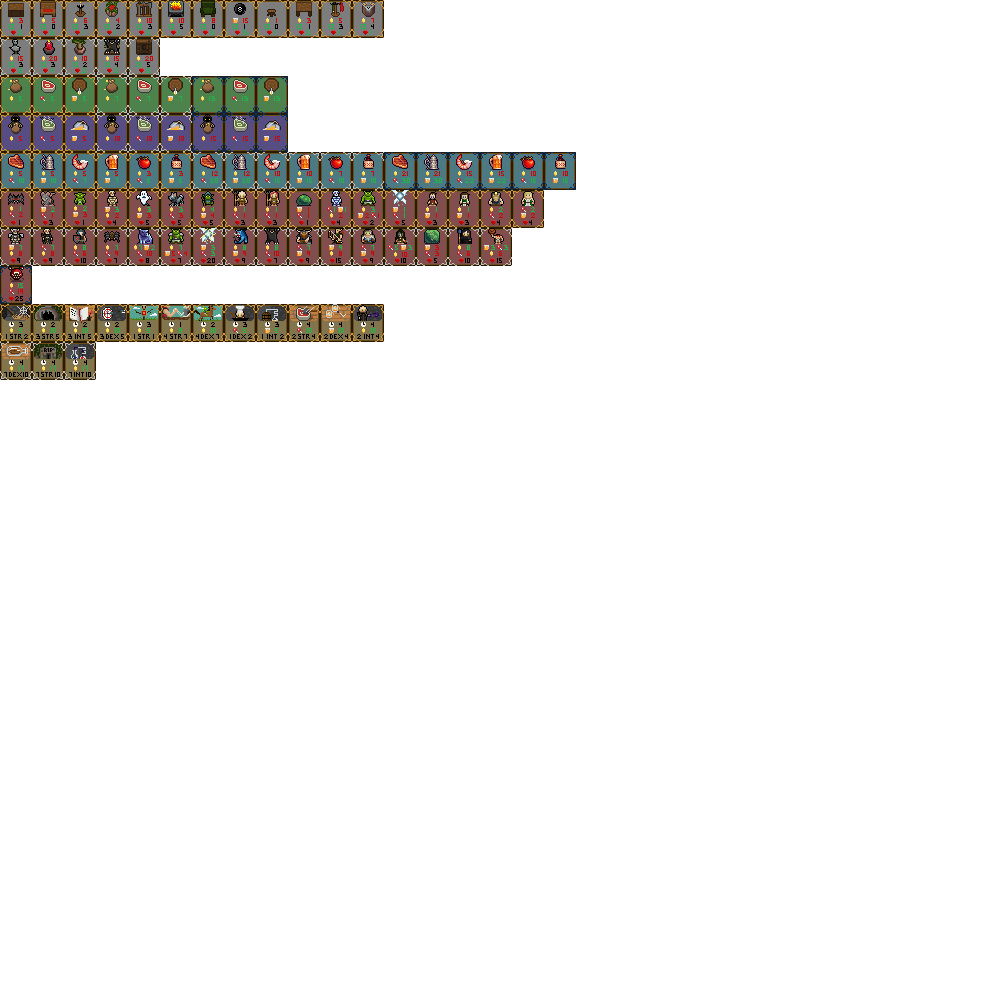
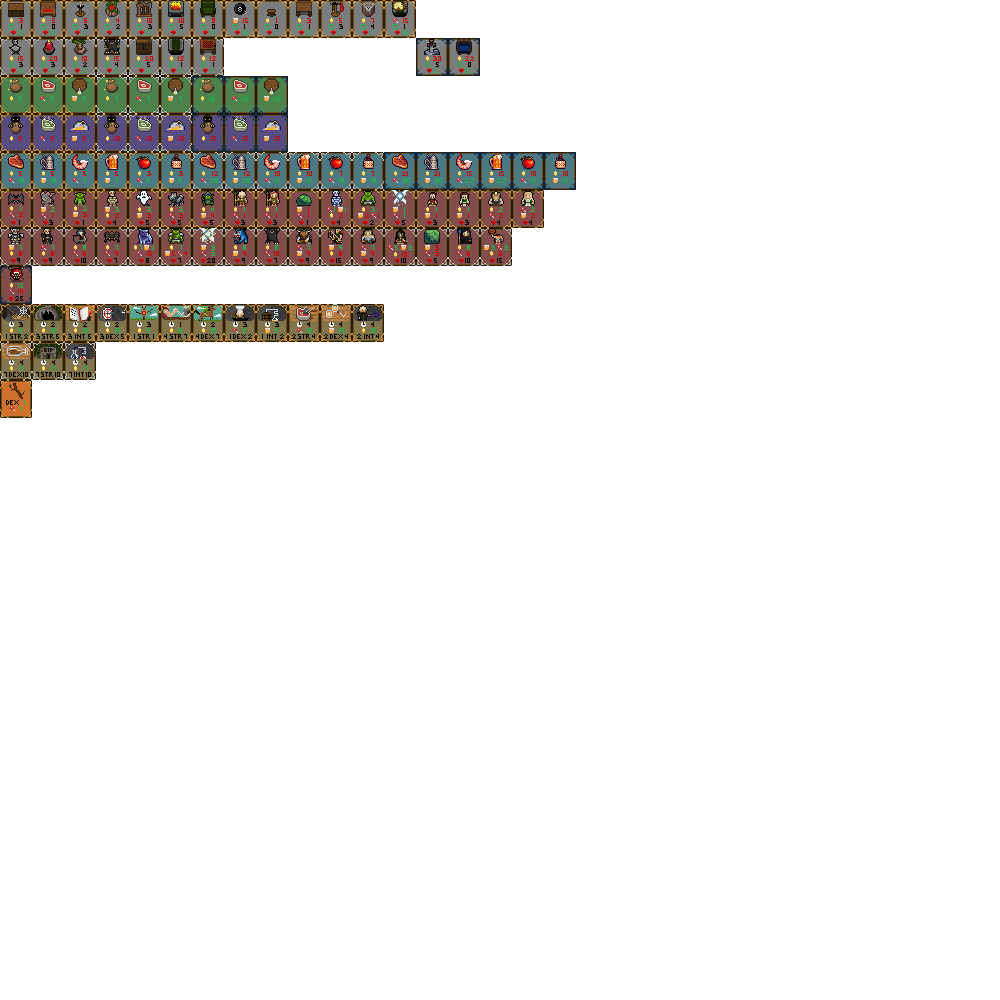
Started Work on Items and Added More Object Content

Changed region(s): [[0.372, 0.0, 0.496, 0.093], [0.155, 0.031, 0.248, 0.093], [0.0, 0.372, 0.031, 0.434]]

diff --git a/db.js b/db.js
@@ -11,11 +11,16 @@ var OBJECTSPRITES = {
     "table" : new Vector2D(9,0),
     "coatrack" : new Vector2D(10,0),
     "jackalope" : new Vector2D(11,0),
+    "cheese" : new Vector2D(12,0),
     "bust" : new Vector2D(0,1),
     "darkcandle" : new Vector2D(1,1),
     "bonsaitree" : new Vector2D(2,1),
     "mountedbear" : new Vector2D(3,1),
-    "portapotty" : new Vector2D(4,1)
+    "portapotty" : new Vector2D(4,1),
+    "stonetable" : new Vector2D(5,1),
+    "gametable" : new Vector2D(6,1),
+    "swordinstone" : new Vector2D(13,1),
+    "kingschair" : new Vector2D(14,1)
 }
 
 var BUFFCURSESPRITES = {
@@ -373,7 +378,7 @@ class Database
                                             new ResourceUpkeep(this.gold, -8), "Relaxing Chair"));
         this.objectCardsCommon.push(new ObjectCard(OBJECTSPRITES["8ball"].x, OBJECTSPRITES["8ball"].y,
                                             OBJECTSPRITES["8ball"].x, OBJECTSPRITES["8ball"].y, 3, 1, true, undefined,
-                                            new ResourceUpkeep(this.beer, -15), "The Magic 8 Ball!!"));
+                                            new ResourceUpkeep(this.beer, -15), "Magic 8 Ball"));
         this.objectCardsCommon.push(new ObjectCard(OBJECTSPRITES["stool"].x, OBJECTSPRITES["stool"].y,
                                             OBJECTSPRITES["stool"].x, OBJECTSPRITES["stool"].y, 1, 0, true, undefined,
                                             new ResourceUpkeep(this.gold, -1), "Stool"));
@@ -386,6 +391,9 @@ class Database
         this.objectCardsCommon.push(new ObjectCard(OBJECTSPRITES["jackalope"].x, OBJECTSPRITES["jackalope"].y,
                                             OBJECTSPRITES["jackalope"].x, OBJECTSPRITES["jackalope"].y, 1, 4, false, undefined,
                                             new ResourceUpkeep(this.gold, -7), "Mounted Jackalope Head"));
+        this.objectCardsCommon.push(new ObjectCard(OBJECTSPRITES["cheese"].x, OBJECTSPRITES["cheese"].y,
+                                            OBJECTSPRITES["cheese"].x, OBJECTSPRITES["cheese"].y, 3, 1, true, undefined,
+                                            new ResourceUpkeep(this.food, -15), "Gourmet Cheese Wheel"));
 
         this.objectCardsUncommon.push(new ObjectCard(OBJECTSPRITES["bust"].x, OBJECTSPRITES["bust"].y,
                                             OBJECTSPRITES["bust"].x, OBJECTSPRITES["bust"].y, 3, 3, false, undefined,
@@ -402,6 +410,19 @@ class Database
         this.objectCardsUncommon.push(new ObjectCard(OBJECTSPRITES["portapotty"].x, OBJECTSPRITES["portapotty"].y,
                                             OBJECTSPRITES["portapotty"].x, OBJECTSPRITES["portapotty"].y, 3, 5, false, undefined,
                                             new ResourceUpkeep(this.gold, -20), "Porta-Potty"));
+        this.objectCardsUncommon.push(new ObjectCard(OBJECTSPRITES["stonetable"].x, OBJECTSPRITES["stonetable"].y,
+                                            OBJECTSPRITES["stonetable"].x, OBJECTSPRITES["stonetable"].y, 4, 1, false, undefined,
+                                            new ResourceUpkeep(this.gold, -12), "Elegant Stone Table"));
+        this.objectCardsUncommon.push(new ObjectCard(OBJECTSPRITES["gametable"].x, OBJECTSPRITES["gametable"].y,
+                                            OBJECTSPRITES["gametable"].x, OBJECTSPRITES["gametable"].y, 4, 1, false, undefined,
+                                            new ResourceUpkeep(this.gold, -12), "Board Game Table"));
+
+        this.objectCardsRare.push(new ObjectCard(OBJECTSPRITES["swordinstone"].x, OBJECTSPRITES["swordinstone"].y,
+                                            OBJECTSPRITES["swordinstone"].x, OBJECTSPRITES["swordinstone"].y, 5, 5, false, undefined,
+                                            new ResourceUpkeep(this.gold, -30), "Sword in the Stone"));
+        this.objectCardsRare.push(new ObjectCard(OBJECTSPRITES["kingschair"].x, OBJECTSPRITES["kingschair"].y,
+                                            OBJECTSPRITES["kingschair"].x, OBJECTSPRITES["kingschair"].y, 12, 0, false, undefined,
+                                            new ResourceUpkeep(this.gold, -22), "King's Chair"));
     }
 
     LoadbuffCardsCommon()

diff --git a/model.js b/model.js
@@ -269,7 +269,11 @@ class Card
         LARGECARDWIDTH, LARGECARDHEIGHT);
 
       if (this.cardType == CARDTYPE_CHARACTER)
+      {
         this.stats.Draw(locX - LARGECARDWIDTH / 4, locY - LARGECARDHEIGHT, ctx);
+        if (this.item != undefined)
+          this.item.DrawLargeCard(locX + Math.floor(LARGECARDWIDTH/4), locY - Math.floor(LARGECARDHEIGHT), ctx);
+      }
     }
 
     DrawLargeCardWithOffset(locX, locY, ctx)
@@ -281,14 +285,26 @@ class Card
         ctx.drawImage(LARGECARDSPRITESHEET, this.largeCardSpriteLocX, this.largeCardSpriteLocY, 
           LARGECARDWIDTH, LARGECARDHEIGHT, locX - LARGECARDWIDTH, locY, LARGECARDWIDTH, LARGECARDHEIGHT);
         if (this.cardType == CARDTYPE_CHARACTER)
-          this.stats.Draw(locX - LARGECARDWIDTH, locY, ctx);
+        {
+          if (this.item != undefined)
+          {
+            this.item.DrawLargeCard(locX - LARGECARDWIDTH, locY, ctx);
+            this.stats.Draw(locX - LARGECARDWIDTH*2, locY, ctx);
+          }
+          else
+            this.stats.Draw(locX - LARGECARDWIDTH, locY, ctx);
+        }
       }
       else
       {
         ctx.drawImage(LARGECARDSPRITESHEET, this.largeCardSpriteLocX, this.largeCardSpriteLocY, 
           LARGECARDWIDTH, LARGECARDHEIGHT, locX + LARGECARDWIDTH, locY, LARGECARDWIDTH, LARGECARDHEIGHT);
           if (this.cardType == CARDTYPE_CHARACTER)
+          {
             this.stats.Draw(locX, locY, ctx);
+            if (this.item != undefined)
+              this.item.DrawLargeCard(locX + LARGECARDWIDTH*2, locY, ctx)
+          }
       }
     }
 
@@ -301,14 +317,26 @@ class Card
         ctx.drawImage(LARGECARDSPRITESHEET, this.largeCardSpriteLocX, this.largeCardSpriteLocY, 
           LARGECARDWIDTH, LARGECARDHEIGHT, locX - LARGECARDWIDTH - Math.floor(LARGECARDWIDTH/4), locY - Math.floor(LARGECARDHEIGHT), LARGECARDWIDTH, LARGECARDHEIGHT);
         if (this.cardType == CARDTYPE_CHARACTER)
+        {
           this.stats.Draw(locX - LARGECARDWIDTH - LARGECARDWIDTH / 4, locY - LARGECARDHEIGHT, ctx);
+          if (this.item != undefined)
+          {
+            this.item.DrawLargeCard(locX + LARGECARDWIDTH - Math.floor(LARGECARDWIDTH/4), locY - Math.floor(LARGECARDHEIGHT), ctx);
+          }
+        }
       }
       else
       {
         ctx.drawImage(LARGECARDSPRITESHEET, this.largeCardSpriteLocX, this.largeCardSpriteLocY, 
           LARGECARDWIDTH, LARGECARDHEIGHT, locX + LARGECARDWIDTH - Math.floor(LARGECARDWIDTH/4), locY - Math.floor(LARGECARDHEIGHT), LARGECARDWIDTH, LARGECARDHEIGHT);
           if (this.cardType == CARDTYPE_CHARACTER)
+          {
             this.stats.Draw(locX - LARGECARDWIDTH / 4, locY - LARGECARDHEIGHT, ctx);
+            if (this.item != undefined)
+            {
+              this.item.DrawLargeCard(locX + LARGECARDWIDTH * 2 - Math.floor(LARGECARDWIDTH/4), locY - Math.floor(LARGECARDHEIGHT), ctx);
+            }
+          }
       }
     }
 }
@@ -585,6 +613,7 @@ class CharacterCard extends Card
         this.firstAppearance = true;
         this.name = name;
         this.stats = stats;
+        this.item = undefined;
     }
 
     Update(objectMap)
@@ -595,7 +624,18 @@ class CharacterCard extends Card
         this.objectSatisfaction = 0;
         for (let i = 0; i < this.resourceUpkeeps.length; i++)
         {
-          if (this.resourceUpkeeps[i].amount < 0)
+          let rscAmount = this.resourceUpkeeps[i].amount;
+          if (this.item != undefined)
+          {
+            for (let o = 0; o < this.item.resourceUpkeeps.length; o++)
+            {
+              if (this.resourceUpkeeps[i].resource.name == this.item.resourceUpkeeps[o].resource.name)
+              {
+                rscAmount += this.item.resourceUpkeeps[o].amount;
+              }
+            }
+          }
+          if (rscAmount < 0)
             canPayUpkeep = this.resourceUpkeeps[i].HaveEnough();
           if (!canPayUpkeep)
             break;

diff --git a/solivern.html b/solivern.html
@@ -33,6 +33,7 @@
 </html>
 <script src="./utilities.js"></script>
 <script src="./model.js"></script>
+<script src="./modelextra.js"></script>
 <script src="./db.js"></script>
 <script src="./main.js"></script>
 <script>
